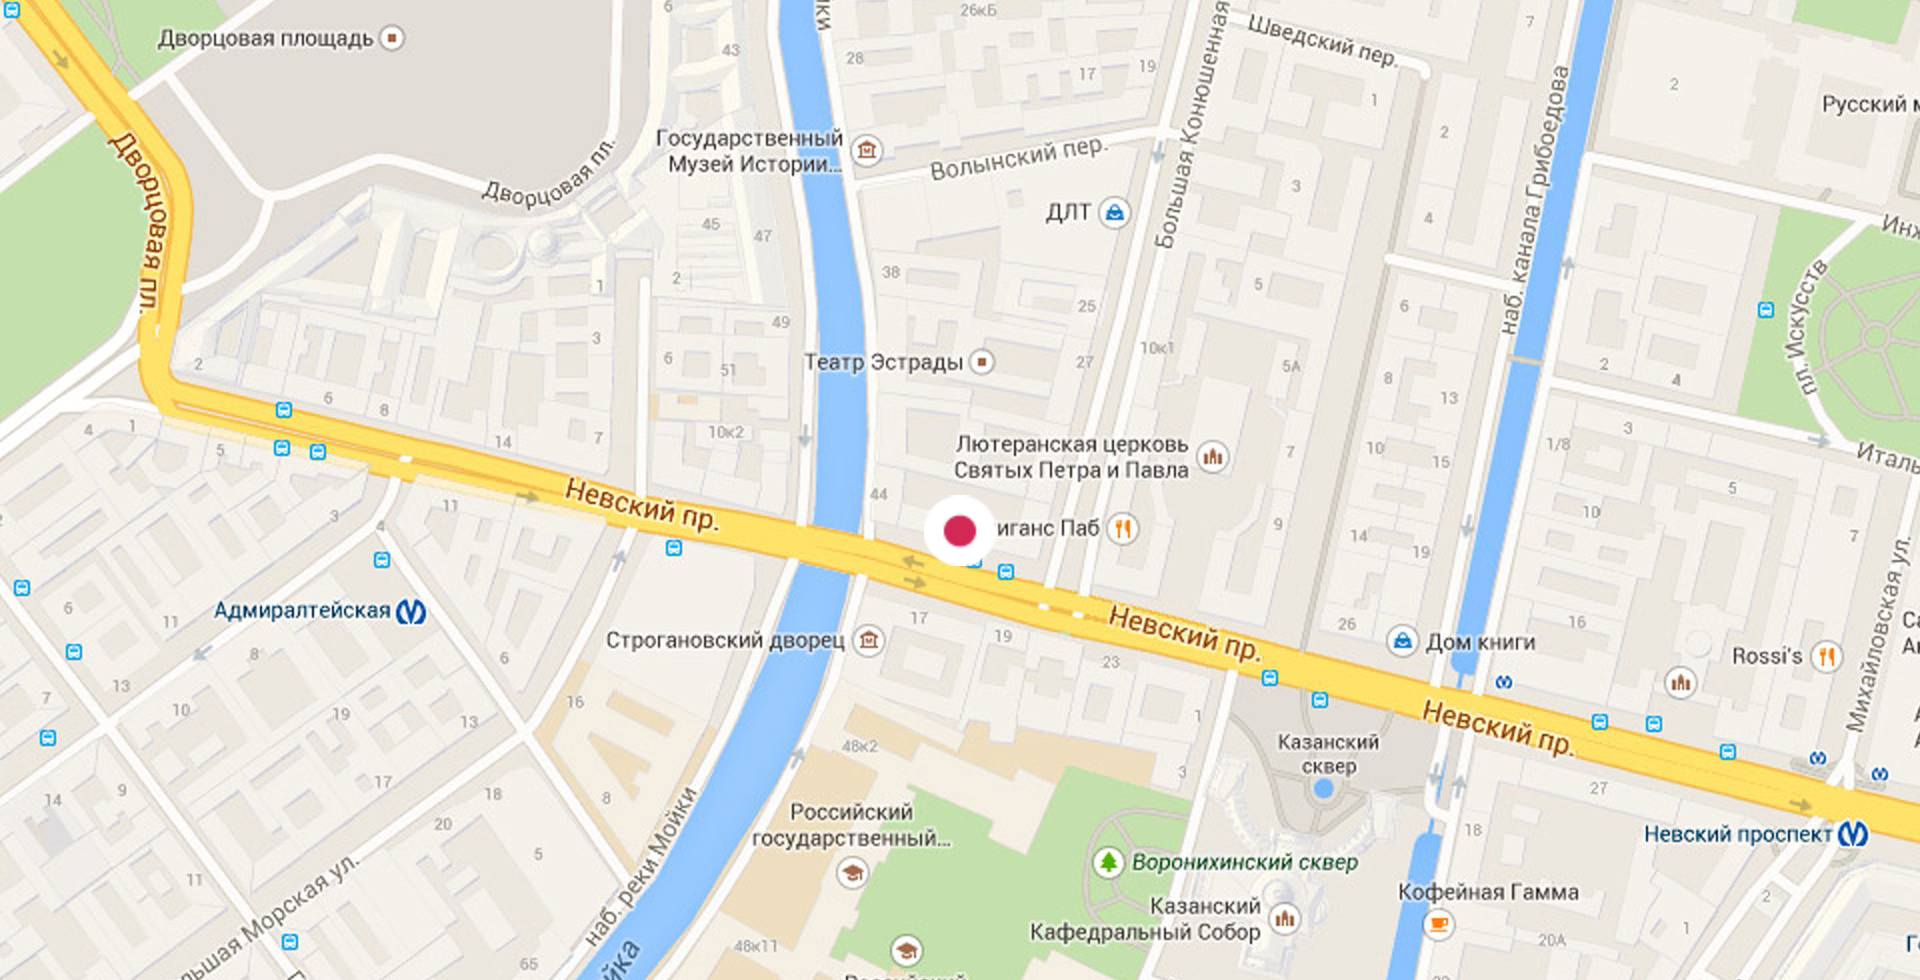
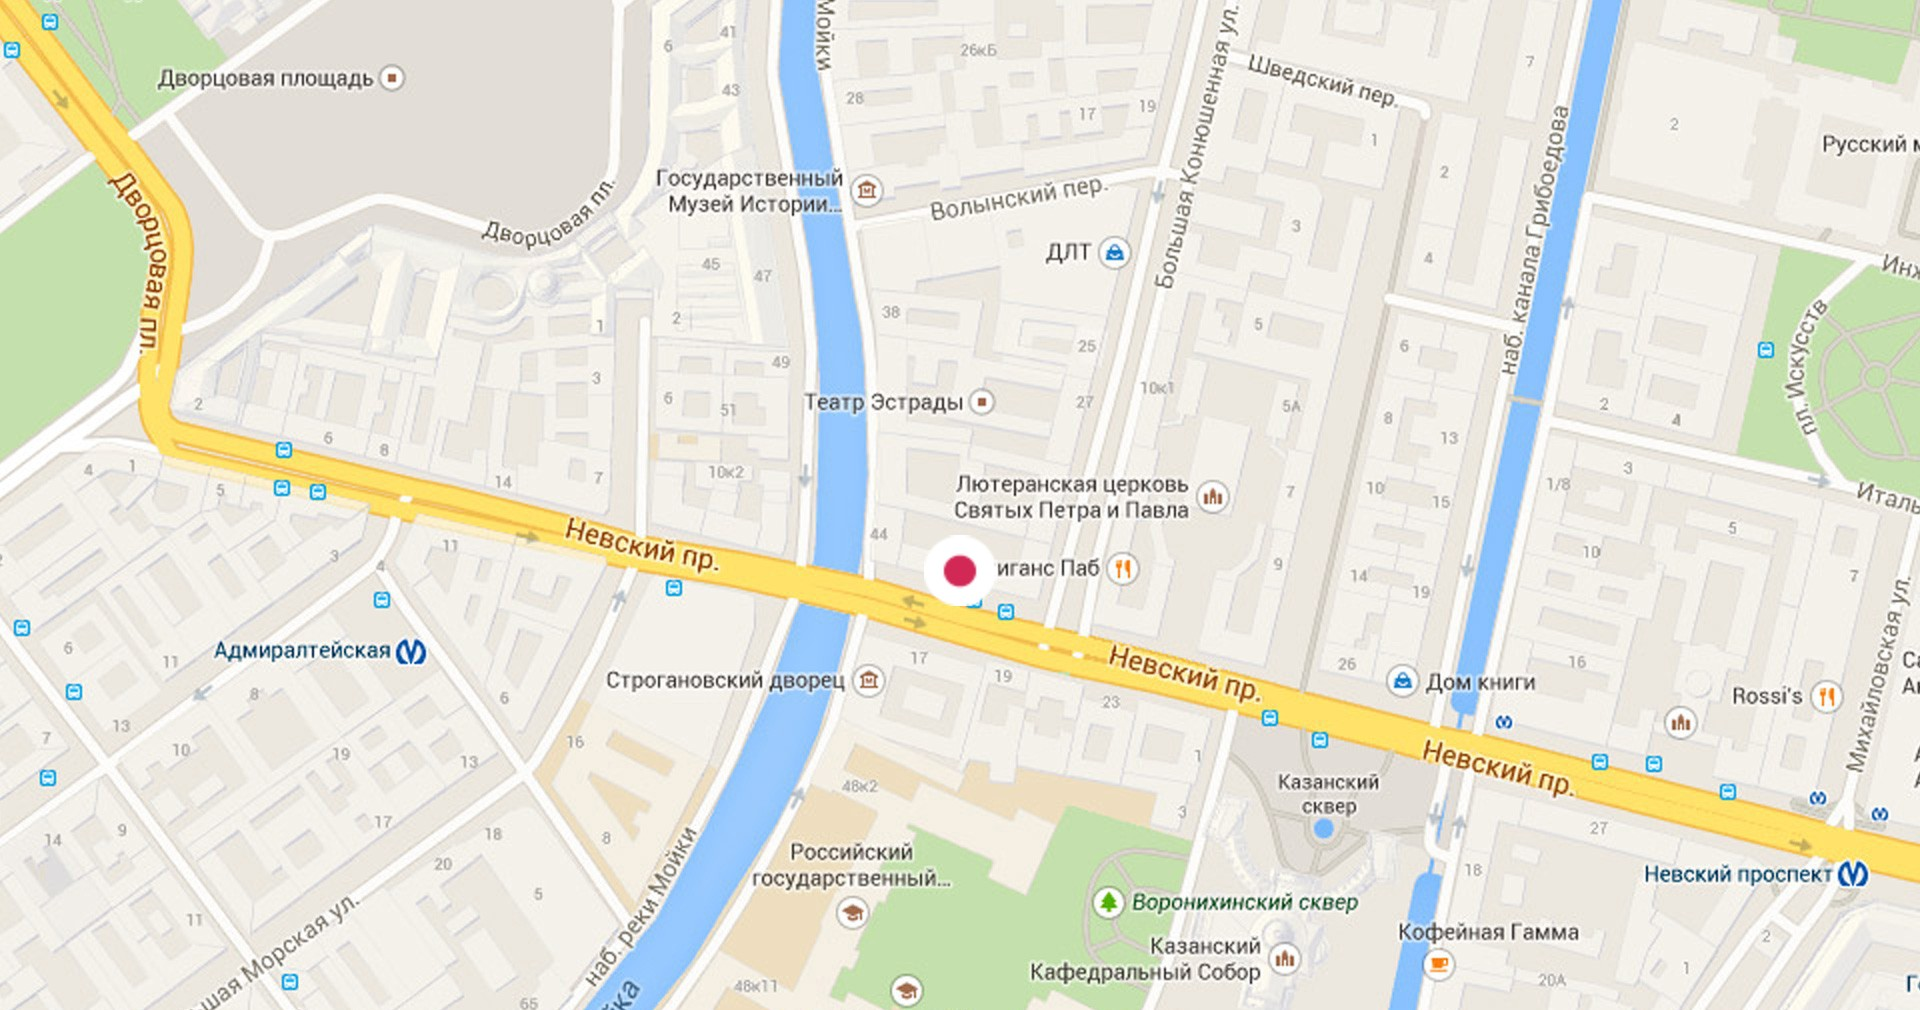
Pixel Perfect всех страниц и всех версий сайта

diff --git a/source/less/blocks/map.less b/source/less/blocks/map.less
@@ -41,23 +41,23 @@
 @media (min-width: @tablet-width) {
   .map__wrapper {
     width: @tablet-width;
-    height: 500px;
+    height: 377px;
   }
 
   .map__interactive {
     min-width: @tablet-width;
-    height: 500px;
+    height: 377px;
   }
 }
 
 @media (min-width: @desktop-width) {
   .map__wrapper {
     width: @desktop-width;
-    height: 490px;
+    height: 505px;
   }
 
   .map__interactive {
     min-width: @desktop-width;
-    height: 490px;
+    height: 505px;
   }
 }

diff --git a/source/less/blocks/contacts.less b/source/less/blocks/contacts.less
@@ -57,7 +57,7 @@
 
 @media (min-width: @tablet-width) {
   .contacts__wrapper {
-    min-height: 390px;
+    min-height: 400px;
     padding-top: 45px;
   }
 
@@ -95,7 +95,7 @@
 @media (min-width: @desktop-width) {
   .contacts__wrapper {
     justify-content: space-between;
-    min-height: 345px;
+    min-height: 370px;
     padding-top: 67px;
     padding-bottom: 20px;
   }

diff --git a/source/less/blocks/form.less b/source/less/blocks/form.less
@@ -482,7 +482,7 @@
     margin-bottom: 47px;
   }
 
-  .form__button {
+  .form__wrapper-elements .form__button {
     width: 300px;
   }
 
@@ -496,7 +496,6 @@
   .form__title {
     width: 775px;
     min-height: 200px;
-    padding-left: 15px;
     margin-bottom: 38px;
 
     &--hide {

diff --git a/source/less/blocks/reviews.less b/source/less/blocks/reviews.less
@@ -88,7 +88,7 @@
   }
 
   .reviews__wrapper {
-    padding-top: 205px;
+    padding-top: 190px;
     padding-bottom: 20px;
   }
 
